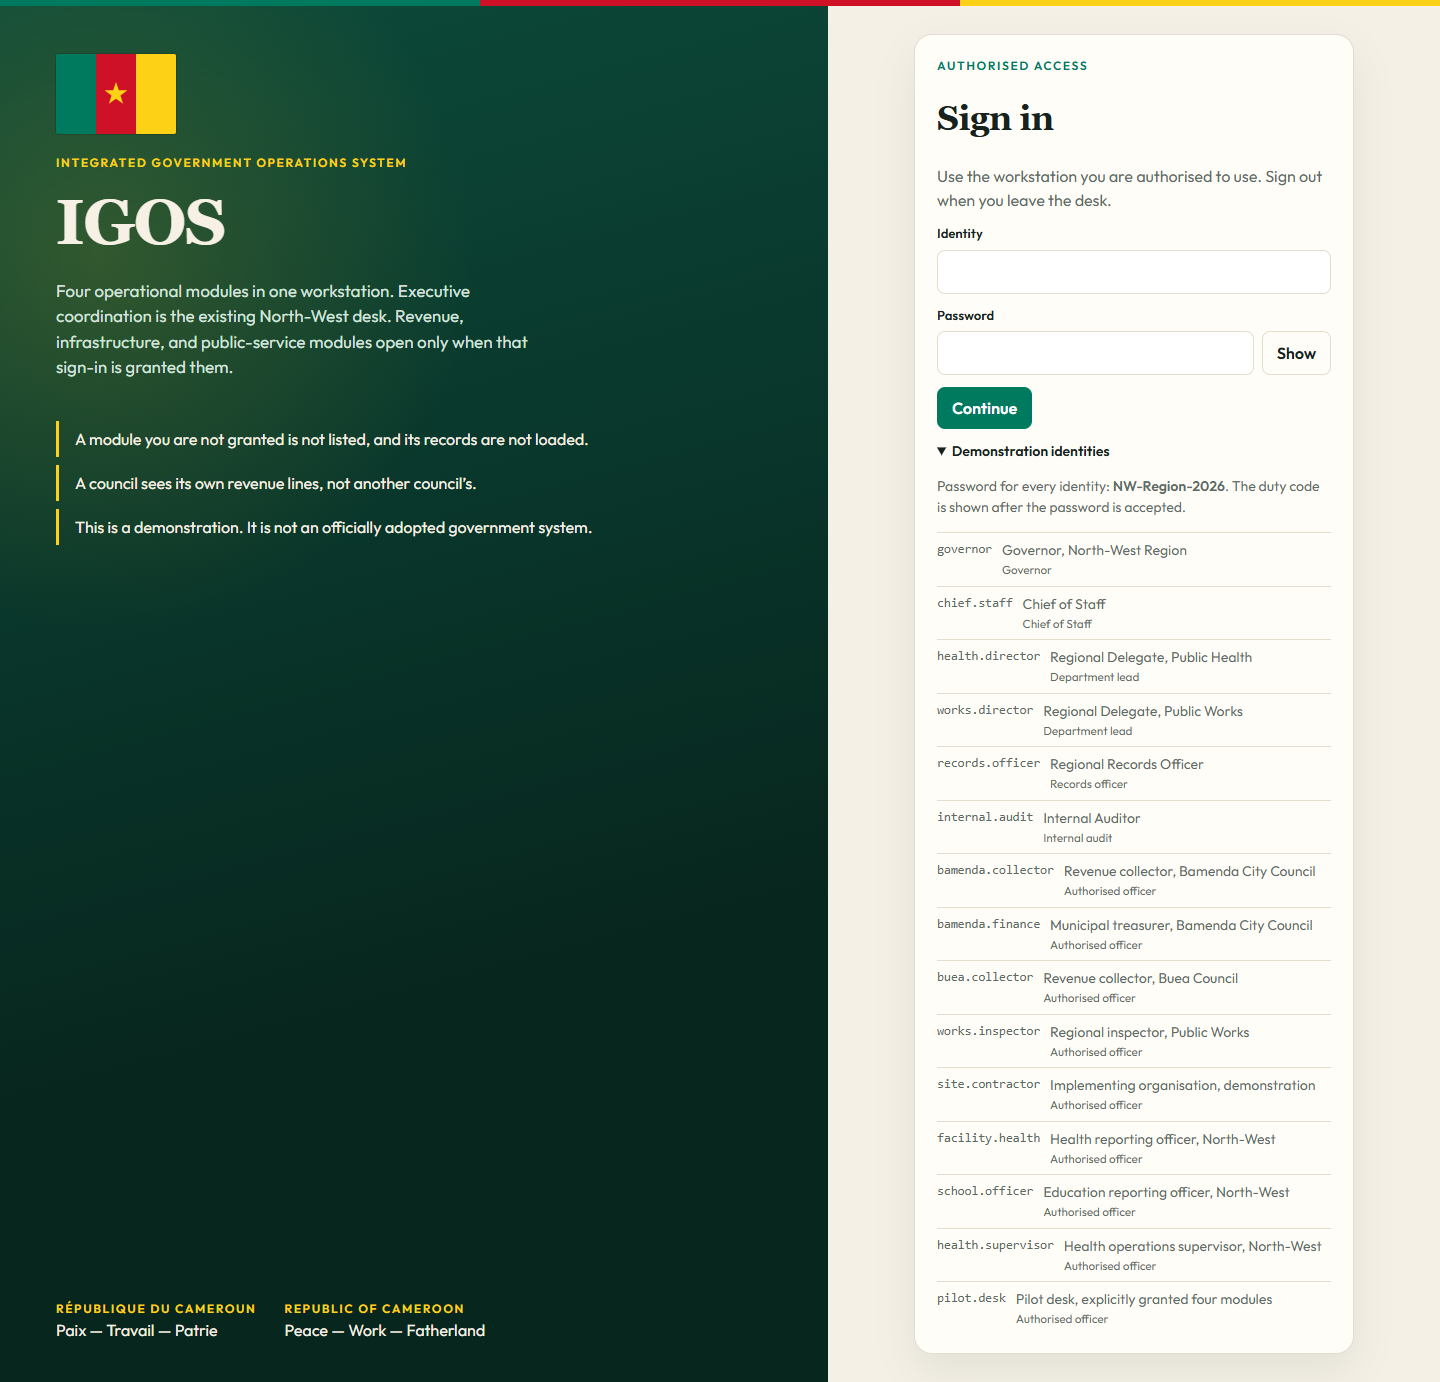
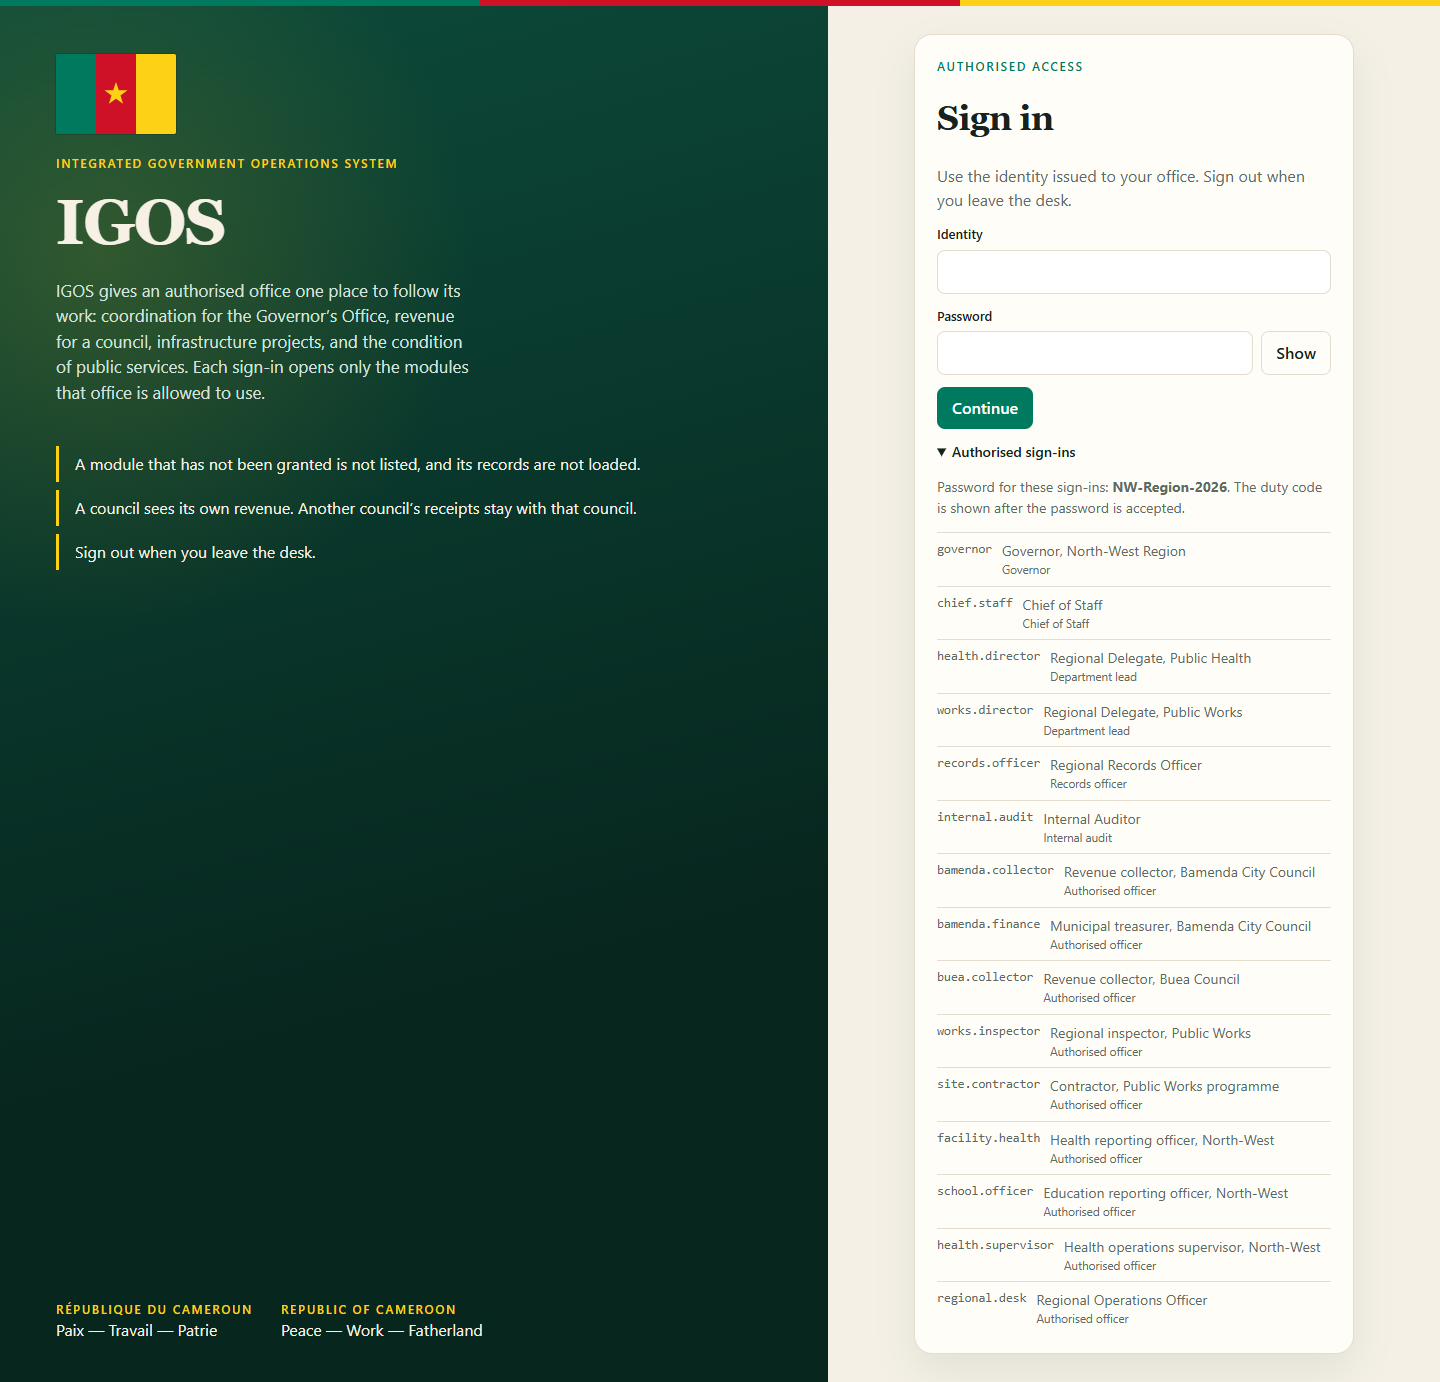
Replace the demonstration wording with the operational sign-in screens.

diff --git a/index.html b/index.html
@@ -25,10 +25,10 @@
       <p>Integrated Government Operations System</p>
       <h1>Sign-ins, then the coordination desk</h1>
       <p>
-        The first pictures are the IGOS sign-in and what each demonstration identity is allowed to open.
-        The password for every identity is NW-Region-2026. The duty code is 482916.
-        The pictures after that are the North-West coordination desk itself.
-        Green, red, and yellow follow the flag of Cameroon. These are demonstration screens, not an official return.
+        The first pictures are the IGOS sign-in and the screen each authorised identity opens.
+        The password for these sign-ins is NW-Region-2026. The duty code is 482916.
+        The pictures after that are the North-West coordination desk.
+        Green, red, and yellow follow the flag of Cameroon.
       </p>
     </header>
     <section>
@@ -40,14 +40,14 @@
         </figcaption>
       </figure>
       <figure>
-        <img src="images/igos-02-identities.png" alt="Sign-in card with the demonstration identities list open, from governor through pilot.desk." />
+        <img src="images/igos-02-identities.png" alt="Sign-in card with the authorised identities list open, from governor through regional.desk." />
         <figcaption>
-          <h2>Demonstration identities</h2>
-          <p>Every sign-in on this workstation. Governor, Chief of Staff, department leads, records, and audit open Executive Coordination. Bamenda and Buea open revenue for their own council. The inspector and the contractor open infrastructure. Health and education open public services. pilot.desk is explicitly granted all four modules and still sees only the pilot sample.</p>
+          <h2>Authorised sign-ins</h2>
+          <p>Governor, Chief of Staff, department leads, records, and audit open Executive Coordination. Bamenda and Buea open revenue for their own council. The inspector and the contractor open infrastructure. Health and education open public services. regional.desk is granted all four modules for the Regional Operations Desk.</p>
         </figcaption>
       </figure>
       <figure>
-        <img src="images/igos-03-duty-code.png" alt="Duty confirmation step with the demonstration duty code 482916." />
+        <img src="images/igos-03-duty-code.png" alt="Duty confirmation step with duty code 482916." />
         <figcaption>
           <h2>Duty confirmation</h2>
           <p>The password alone does not open the platform. The duty code is entered on the next screen.</p>
@@ -110,10 +110,10 @@
         </figcaption>
       </figure>
       <figure>
-        <img src="images/igos-12-pilot-modules.png" alt="Pilot desk with four module cards: Executive Coordination, Revenue Assurance, Infrastructure Oversight, and Public-Service Operations." />
+        <img src="images/igos-12-pilot-modules.png" alt="Regional Operations Desk with four module cards: Executive Coordination, Revenue Assurance, Infrastructure Oversight, and Public-Service Operations." />
         <figcaption>
-          <h2>pilot.desk — four explicit grants</h2>
-          <p>This sign-in was granted all four modules. It still does not load the Governor’s register or another council’s revenue. It sees the pilot sample only.</p>
+          <h2>regional.desk</h2>
+          <p>The Regional Operations Officer is granted all four modules. Council receipts and the Governor’s register stay with those institutions.</p>
         </figcaption>
       </figure>
     </section>
@@ -130,7 +130,7 @@
         </figcaption>
       </figure>
       <figure>
-        <img src="images/02-duty-code.png" alt="Second sign-in step titled Duty confirmation, with a yellow slip showing the demonstration duty code and a field to type it." />
+        <img src="images/02-duty-code.png" alt="Second sign-in step titled Duty confirmation, with a yellow slip showing the duty code and a field to type it." />
         <figcaption>
           <h2>Duty confirmation</h2>
           <p>The second step of sign-in. The password alone does not open the desk. The duty code has to be entered as well.</p>
@@ -189,7 +189,7 @@
         <img src="images/10-directory.png" alt="Directory of regional offices including the Office of the Governor, General Administration, Finance, Public Health, Education, Public Works, Agriculture, Communication, and Local Government Liaison." />
         <figcaption>
           <h2>Directory</h2>
-          <p>The nine offices on the platform and what each one is for, followed by the demonstration identities that can sign in.</p>
+          <p>The nine offices on the platform and what each one is for, followed by the authorised sign-ins.</p>
         </figcaption>
       </figure>
       <figure>
